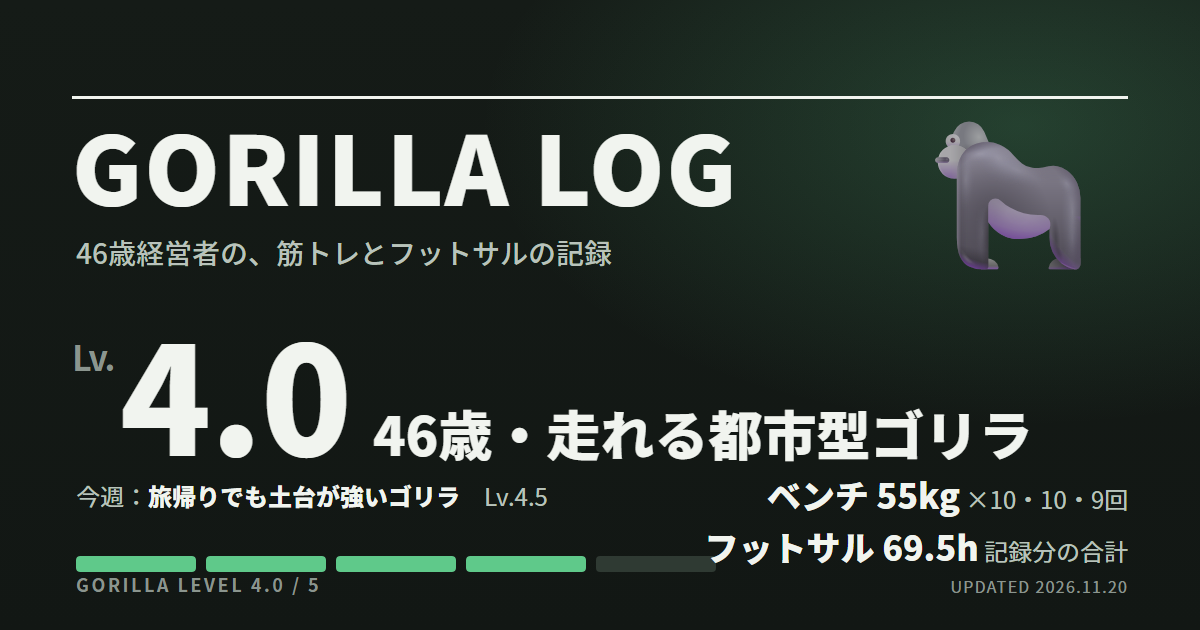
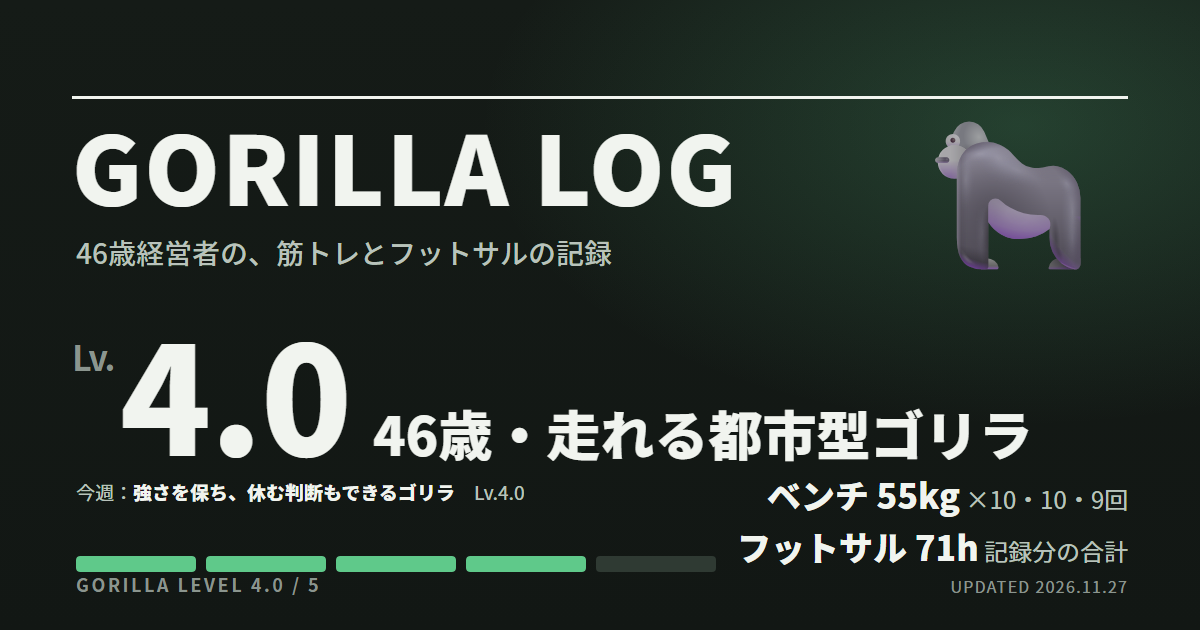
week of 2026-11-27: R77〜R81 を追加
- 11/21 フットサル1.5h、11/23 ジム（ベンチ55kg 10・10・9、ラット38kg×10×3）、11/25・11/26 背中の痛みによる休養（採点外）、11/27 自宅16セット
- 週判定「強さを保ち、休む判断もできるゴリラ Lv.4.0」と今週のひと言
- rest の定義をジム以外の休養にも拡張（カレンダー説明・ドキュメント）

Changed region(s): [[0.0617, 0.754, 0.4625, 0.8143], [0.5858, 0.8444, 0.8017, 0.9048]]

diff --git a/data/records.js b/data/records.js
@@ -12,7 +12,7 @@
      id        : "R34" のような連番
      date      : "2026-09-18"（YYYY-MM-DD）。曜日から推定した日付なら estimated: true
      type      : "gym" | "futsal" | "home" | "rest" | "cancel"
-                 rest＝予定していたジムを休んだ記録、cancel＝天候などで中止になった記録。どちらも level を書かず採点外
+                 rest＝体調などの理由で予定していた運動（ジム・フットサル・自宅トレ）を休んだ記録、cancel＝天候などで中止になった記録。どちらも level を書かず採点外
      session   : "AM" | "PM"  同じ日に2セッションある場合だけ付ける（任意）
      title     : 一覧に出る短い見出し
      level     : ゴリラレベル 2.0〜5.0（0.5刻み）。休養(rest)・中止(cancel)は省略
@@ -34,7 +34,7 @@ window.GORILLA_DATA = {
   meta: {
     siteName: "GORILLA LOG",
     tagline: "46歳経営者の、筋トレとフットサルの記録",
-    updated: "2026-11-20",
+    updated: "2026-11-27",
     since: "2025-09",
     overallLevel: 4.0,
     overallTitle: "46歳・走れる都市型ゴリラ",
@@ -656,6 +656,44 @@ window.GORILLA_DATA = {
       exercises: ["ダンベルプレス 10kg×15・15・20", "ワンハンドローイング 10kg×30×3", "ブルガリアンスクワット 自重×20×3", "ダンベルフライ 10kg×12・12・20", "サイドレイズ 10kg×10×2", "フレンチプレス 10kg×20×2"],
       source: "画像で確認",
     },
+    {
+      id: "R77", date: "2026-11-21", type: "futsal",
+      title: "フットサル1.5時間", hours: 1.5, level: 2.5, provisional: true,
+      nickname: "週末コート継続ゴリラ",
+      note: "今週確認できたフットサルの実施はこの1回。25日は痛みで参加を見送ったため、週の参加時間は1.5時間。この参加が後日の背中の痛みの原因だったとは判断しない。",
+      source: "11月27日の本人報告",
+    },
+    {
+      id: "R78", date: "2026-11-23", type: "gym",
+      title: "ベンチ55kg 10・10・9 を再現／ラットプルダウン38kg×10×3", level: 4.0,
+      nickname: "55kgを保ち、38kgを引くジムゴリラ",
+      note: "ベンチ55kgは前回11月16日と同じ10・10・9回で計29回。ラットプルダウンは35・37kgから38kg×10×3へ設定重量が前進。脚はブルガリアンスクワットを自重・6kg・10kgで各20回。バーベルスクワットは今回の記録になく、実施分に補わない。",
+      bench: { w: 55, reps: [10, 10, 9], full: false, verified: true },
+      exercises: ["上体起こし 自重×10×3", "ベンチプレス 20×10, 30×5, 55×10・10・9, 37.5×10", "ブルガリアンスクワット 自重×20, 6kg×20, 10kg×20", "ラットプルダウン 38×10×3", "サイドレイズ 8kg×15×3"],
+      source: "画像で確認",
+    },
+    {
+      id: "R79", date: "2026-11-25", type: "rest",
+      title: "フットサルを休養（背中の痛み）",
+      nickname: "背中の痛みによる休養",
+      note: "起床後に背中を攣り、痛みがひどかったため参加を見送った。参加できなかったことを継続の失敗や意欲不足と評価しない。原因や診断名は未確認で、こちらで決めない。",
+      source: "11月27日の本人報告",
+    },
+    {
+      id: "R80", date: "2026-11-26", type: "rest",
+      title: "自宅トレを休養（背中の痛みが少し残る）",
+      nickname: "痛みの残る日の自宅休養",
+      note: "少し痛みが残っていたため自宅トレを控えた。いつもの16セットを実施済みとして補わず、休んだ分を後でまとめて行う必要があるという扱いもしない。",
+      source: "11月27日の本人報告",
+    },
+    {
+      id: "R81", date: "2026-11-27", type: "home",
+      title: "自宅トレ 6種目・16セット（休養後、痛みなく実施）", level: 3.5, sets: 16,
+      nickname: "定番メニューの実施記録ゴリラ",
+      note: "25・26日に予定を控えた後、背中を気にしながら通常どおり実施。運動中から報告時点まで痛みは出ていないとの本人報告。痛みを押して実施したとは扱わず、休養翌日の再開を加点もしない。翌朝以降の状態は続く記録で確認する。",
+      exercises: ["ダンベルプレス 10kg×15・15・20", "ワンハンドローイング 10kg×30×3", "ブルガリアンスクワット 自重×20×3", "ダンベルフライ 10kg×12・12・20", "サイドレイズ 10kg×10×2", "フレンチプレス 10kg×20×2"],
+      source: "画像で確認",
+    },
   ],
 
   /* 週単位・期間単位のゴリラ判定（新しいものを末尾に追加）。comment は「今週のひと言」（任意） */
@@ -686,6 +724,8 @@ window.GORILLA_DATA = {
       comment: "仕事に使う時間が増えた週に、ベンチの最後の2回が増えた。55kgは、ついに3セットそろった。肩は今週から横に上がったのではなく、名前が実際の動きに追いついた。ゴリラは量だけでなく、記録の精度も積み上げる。" },
     { range: "11月14〜20日", combo: "ジム1回＋自宅2回＋フットサル1回・参加枠2時間", level: 4.5, name: "旅帰りでも土台が強いゴリラ", note: "運動4日・4セッション。準備除外48セット（前週30）。大阪滞在（13日夜〜15日）後もベンチ55kg計29回・スクワット70kg×10×3を再現し、引く種目も実施。旅行日は運動に換算せず、19・20日の連日実施も加点しない",
       comment: "大阪から戻っても、55kgと70kgはいつもの顔。次の伸びしろには、休む余白も入れておく。" },
+    { range: "11月21〜27日", combo: "ジム1回＋自宅1回＋フットサル1回・1.5時間／背中の痛みによる休養2件", level: 4.0, name: "強さを保ち、休む判断もできるゴリラ", note: "運動3日・3セッション。準備除外32セット（前週48）。ベンチ55kg計29回を再現、ラット38kg×10×3。25・26日の休養は採点外。27日は痛みなく通常メニューを実施（本人報告）",
+      comment: "鉄を持つ力と、予定を下ろす判断。今週のゴリラには、その両方があった。" },
   ],
 
   /* 記録全体にかかる注記（新しいものを末尾に追加）。全記録の見出しの下に表示される */

diff --git a/index.html b/index.html
@@ -316,7 +316,7 @@ footer{margin-top:40px; padding-top:18px; border-top:1px solid var(--hair); font
 </section>
 
 <section aria-labelledby="h-cal">
-  <div class="sec-head"><h2 id="h-cal">活動カレンダー</h2><p>週ごとの運動日。ジ＝ジム、フ＝フットサル、宅＝自宅トレ、休＝ジムの休養、止＝天候などによる中止。2色のセルは同じ日の午前・午後。右上の小さな点は、曜日から推定した日付。</p></div>
+  <div class="sec-head"><h2 id="h-cal">活動カレンダー</h2><p>週ごとの運動日。ジ＝ジム、フ＝フットサル、宅＝自宅トレ、休＝体調などによる休養、止＝天候などによる中止。2色のセルは同じ日の午前・午後。右上の小さな点は、曜日から推定した日付。</p></div>
   <div class="card">
     <div class="legend"><span><i class="sw sq gym"></i>ジム</span><span><i class="sw sq futsal"></i>フットサル</span><span><i class="sw sq home"></i>自宅トレ</span><span><i class="sw sq rest"></i>休養・中止（採点外）</span></div>
     <div class="cal" id="cal"></div>

diff --git a/DESIGN_AND_OPERATIONS.md b/DESIGN_AND_OPERATIONS.md
@@ -69,7 +69,7 @@ GORILLA_DATA
 | `id` | 文字列 | ○ | `"R34"` のような連番。表示には使わないが追跡用 |
 | `date` | `"YYYY-MM-DD"` | ○ | 実施日。ソートとカレンダー配置に使う |
 | `estimated` | 真偽 | | 曜日から推定した日付なら `true`。一覧に「推定」、カレンダーに小さな点 |
-| `type` | `"gym"` / `"futsal"` / `"home"` / `"rest"` / `"cancel"` | ○ | 色・集計・フィルタの軸。`rest` はジムの休養、`cancel` は天候などによる中止 |
+| `type` | `"gym"` / `"futsal"` / `"home"` / `"rest"` / `"cancel"` | ○ | 色・集計・フィルタの軸。`rest` は体調などによる休養（ジム・フットサル・自宅トレ）、`cancel` は天候などによる中止 |
 | `session` | `"AM"` / `"PM"` | | 同日2セッションのときだけ。一覧の日付、ツールチップ、直近7日に表示 |
 | `title` | 文字列 | ○ | 一覧の見出し |
 | `level` | 数値 | ○ | 2.0〜5.0、0.5刻み。`rest` / `cancel` は書かない（採点外） |
@@ -313,6 +313,7 @@ git push
 |---|---|
 | 2026-09-11 | 初版。33項目のアーカイブを構造化し、ダッシュボード・OGP・GA4ローダーを実装。GitHub Pages で公開 |
 | 2026-09-18 | R34〜R37 を追加（37項目）。休養タイプ `rest` を導入し採点外として表示。週判定に「今週のひと言」を追加。OGP画像のフットサル合計を37.5hに更新 |
+| 2026-11-27 | R77〜R81 を追加（81項目）。背中の痛みによる休養2件（フットサル・自宅トレ）を `rest` として記録し、`rest` の定義をジム以外にも拡張。週判定 Lv.4.0 |
 | 2026-11-20 | R73〜R76 を追加（76項目）。ベンチ55kg 10・10・9、スクワット70kg×10×3、引く種目6セット。週判定 Lv.4.5。構造変更なし |
 | 2026-11-13 | R70〜R72 を追加（72項目）。ベンチ55kg×10×3を初達成、スクワット70kg復帰。レイズの種目名訂正（フロント→サイド）を `notices` に追加。`.gitignore` を `md-archive/` 全体に変更 |
 | 2026-11-07 | R66〜R69 を追加（69項目）。休養後のジム復帰でベンチ55kg 10・10・8を再現、スクワット60kg。週判定 Lv.4.0。構造変更なし |

diff --git a/README.md b/README.md
@@ -58,7 +58,7 @@ md-archive/          ChatGPT から書き出した週次アーカイブ md（公
 | 項目 | 意味 |
 |---|---|
 | `date` | `YYYY-MM-DD`。曜日から推定した日付なら `estimated: true` を付ける（一覧に「推定」、カレンダーに小さな点が出る） |
-| `type` | `gym` / `futsal` / `home` / `rest`（ジムの休養）/ `cancel`（天候などによる中止）。`rest` と `cancel` は `level` を書かない＝採点外 |
+| `type` | `gym` / `futsal` / `home` / `rest`（体調などによる休養。ジム・フットサル・自宅トレのどれでも）/ `cancel`（天候などによる中止）。`rest` と `cancel` は `level` を書かない＝採点外 |
 | `session` | 同じ日に2セッションある場合だけ `"AM"` / `"PM"` を付ける。カレンダーは2色セル、直近7日は2段で表示 |
 | `level` | ゴリラレベル 2.0〜5.0、0.5刻み |
 | `provisional` | 数値を画像で確認できていない回は `true`（「暫定」表示） |
